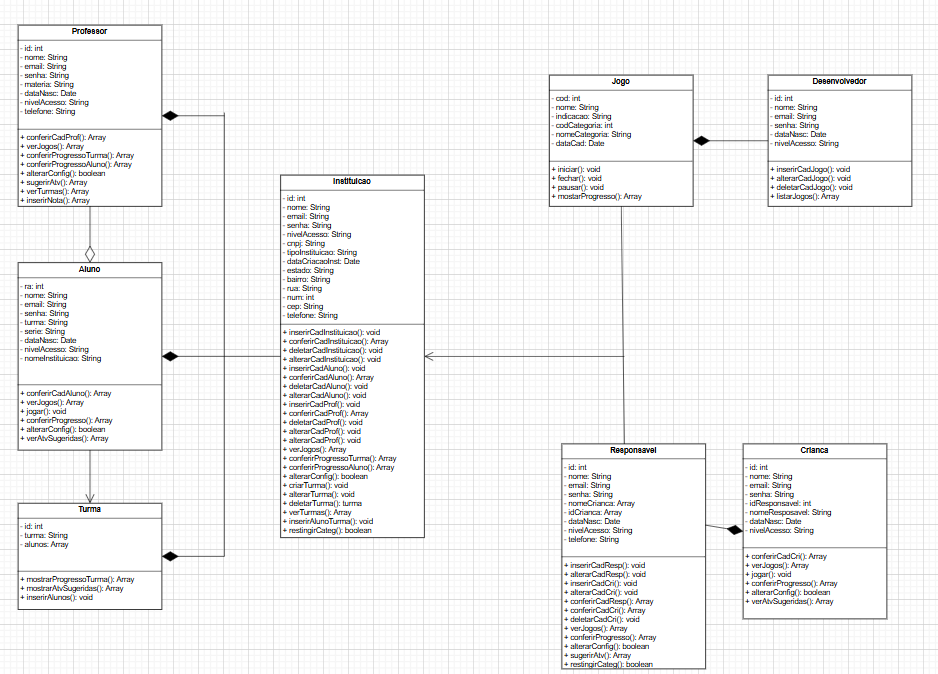
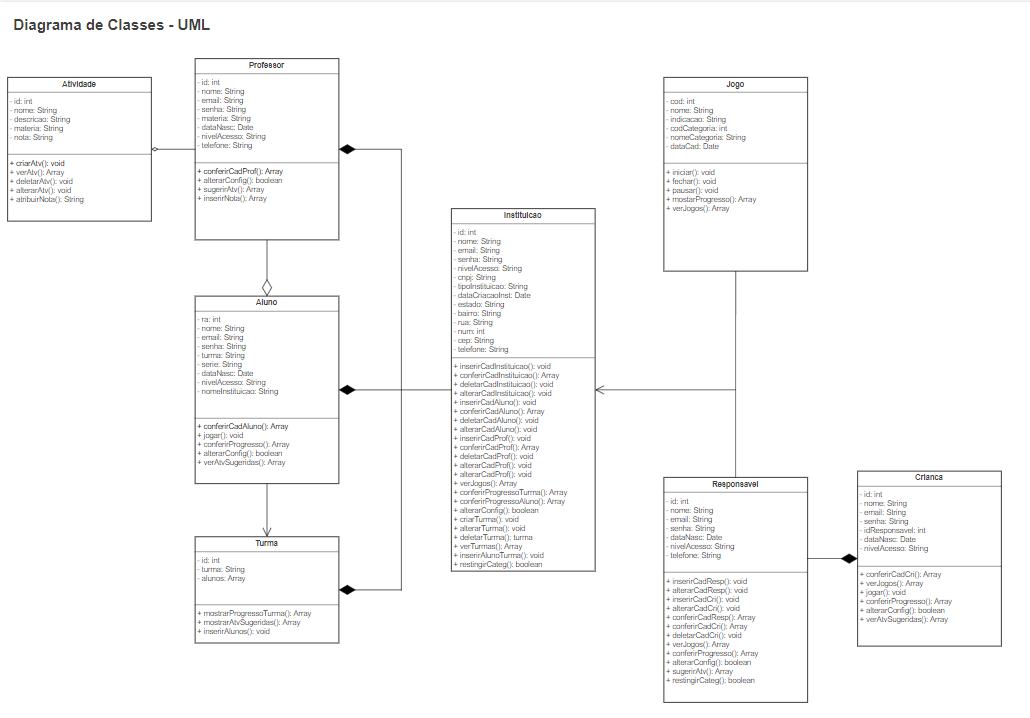
updt uml and add delete Aluno and Professor

Changed region(s): [[0.0, 0.0, 0.9893, 0.997], [0.9275, 0.405, 0.9584, 0.5608], [0.9275, 0.3116, 0.9584, 0.3739]]

diff --git a/model/Aluno.class.php b/model/Aluno.class.php
@@ -108,7 +108,7 @@ class Aluno
     {
         $this->id_inst = $id_inst;
     }
-    
+
     // Método para retornar a conexão PDO
     public function getPdo()
     {
@@ -187,7 +187,7 @@ class Aluno
         $stmt->bindValue(':id', $id);
         $stmt->execute();
 
-        if($stmt->rowCount() > 0){
+        if ($stmt->rowCount() > 0) {
             return $stmt->fetch(PDO::FETCH_ASSOC);
         } else {
             return null;
@@ -200,13 +200,13 @@ class Aluno
         $stmt = $this->pdo->prepare($sql);
         $stmt->execute();
 
-        if($stmt->rowCount() > 0){
+        if ($stmt->rowCount() > 0) {
             return $stmt->fetch(PDO::FETCH_ASSOC);
         } else {
             return null;
         }
     }
-    
+
     // Novo método para listar todos os alunos
     public function listarTodosAlunos($id_inst)
     {
@@ -215,11 +215,28 @@ class Aluno
         $stmt->bindValue(':ii', $id_inst);
         $stmt->execute();
 
-        if($stmt->rowCount() > 0){
+        if ($stmt->rowCount() > 0) {
             return $stmt->fetchAll(PDO::FETCH_ASSOC);
         } else {
             return array(); // Retorna array vazio em vez de null para facilitar o loop
         }
+    }
+
+    public function excluirAluno($id, $id_inst)
+    {
+
+         try {
+        $sql = "DELETE FROM aluno WHERE ra = :ra AND id_inst = :id_inst";
+        $stmt = $this->pdo->prepare($sql);
+        $stmt->bindValue(':ra', $id);
+        $stmt->bindValue(':id_inst', $id_inst);
+        return $stmt->execute();
+    } catch(PDOException $e) {
+        echo "Erro ao excluir: " . $e->getMessage();
+        return false;
+    }
+
+       
     }
 
     public function verJogos()

diff --git a/view/MenuInstituicao.php b/view/MenuInstituicao.php
@@ -375,7 +375,7 @@ $professorObj = new Professor();
                                 // Ações (editar, excluir, ver detalhes)
                                 echo "<td class='actions'>";
                                 echo "<button title='Editar'>✏</button>";
-                                echo "<button title='Excluir'>❌</button>";
+                                echo "<a title='Excluir' href='../controller/deleteAluno.php?id={$aluno['ra']}'>❌</a>";
                                 echo "</td>";
                                 echo "</tr>";
                             }
@@ -468,7 +468,7 @@ $professorObj = new Professor();
                                         // Ações (editar, excluir, ver detalhes)
                                         echo "<td class='actions'>";
                                         echo "<button title='Editar'>✏</button>";
-                                        echo "<button title='Excluir'>❌</button>";
+                                        echo "<a title='Excluir' href='../controller/deleteProf.php?id={$professor['id']}'>❌</a>";
                                         echo "</td>";
                                         echo "</tr>";
                                     }

diff --git a/model/Professor.class.php b/model/Professor.class.php
@@ -23,10 +23,12 @@ class Professor
     {
         $this->id = $id;
     }
-    public function getIdInst(){
+    public function getIdInst()
+    {
         return $this->id_inst;
     }
-    public function setIdInst($id_inst){
+    public function setIdInst($id_inst)
+    {
         $this->id_inst = $id_inst;
     }
     public function getNome()
@@ -184,8 +186,23 @@ class Professor
             return array(); // Retorna array vazio em vez de null para facilitar o loop
         }
     }
-        
-    
+
+    public function excluirProf($id, $id_inst)
+    {
+
+        try {
+            $sql = "DELETE FROM professor WHERE id = :id AND id_inst = :id_inst";
+            $stmt = $this->pdo->prepare($sql);
+            $stmt->bindValue(':id', $id);
+            $stmt->bindValue(':id_inst', $id_inst);
+            return $stmt->execute();
+        } catch (PDOException $e) {
+            echo "Erro ao excluir: " . $e->getMessage();
+            return false;
+        }
+
+    }
+
 
 
 

diff --git a/controller/deleteProf.php b/controller/deleteProf.php
@@ -1,0 +1,25 @@
+<?PHP
+session_start();
+
+if(!isset($_SESSION['id']) || !isset($_GET['id'])) {
+    header("Location: ../view/MenuInstituicao.php");
+    exit();
+}
+
+require_once('../model/Professor.class.php');
+
+$professor = new Professor();
+$id = $_GET['id'];
+$id_inst = $_SESSION['id'];
+
+try {
+    if($professor->excluirProf($id, $id_inst)) {
+        header("Location: ../view/MenuInstituicao.php?success=1");
+    } else {
+        header("Location: ../view/MenuInstituicao.php?error=1");
+    }
+    exit();
+} catch(Exception $e) {
+    header("Location: ../view/MenuInstituicao.php?error=2");
+    exit();
+}

diff --git a/controller/deleteAluno.php b/controller/deleteAluno.php
@@ -1,0 +1,25 @@
+<?PHP
+session_start();
+
+if(!isset($_SESSION['id']) || !isset($_GET['id'])) {
+    header("Location: ../view/MenuInstituicao.php");
+    exit();
+}
+
+require_once('../model/Aluno.class.php');
+
+$aluno = new Aluno();
+$ra = $_GET['id'];
+$id_inst = $_SESSION['id'];
+
+try {
+    if($aluno->excluirAluno($ra, $id_inst)) {
+        header("Location: ../view/MenuInstituicao.php?success=1");
+    } else {
+        header("Location: ../view/MenuInstituicao.php?error=1");
+    }
+    exit();
+} catch(Exception $e) {
+    header("Location: ../view/MenuInstituicao.php?error=2");
+    exit();
+}
